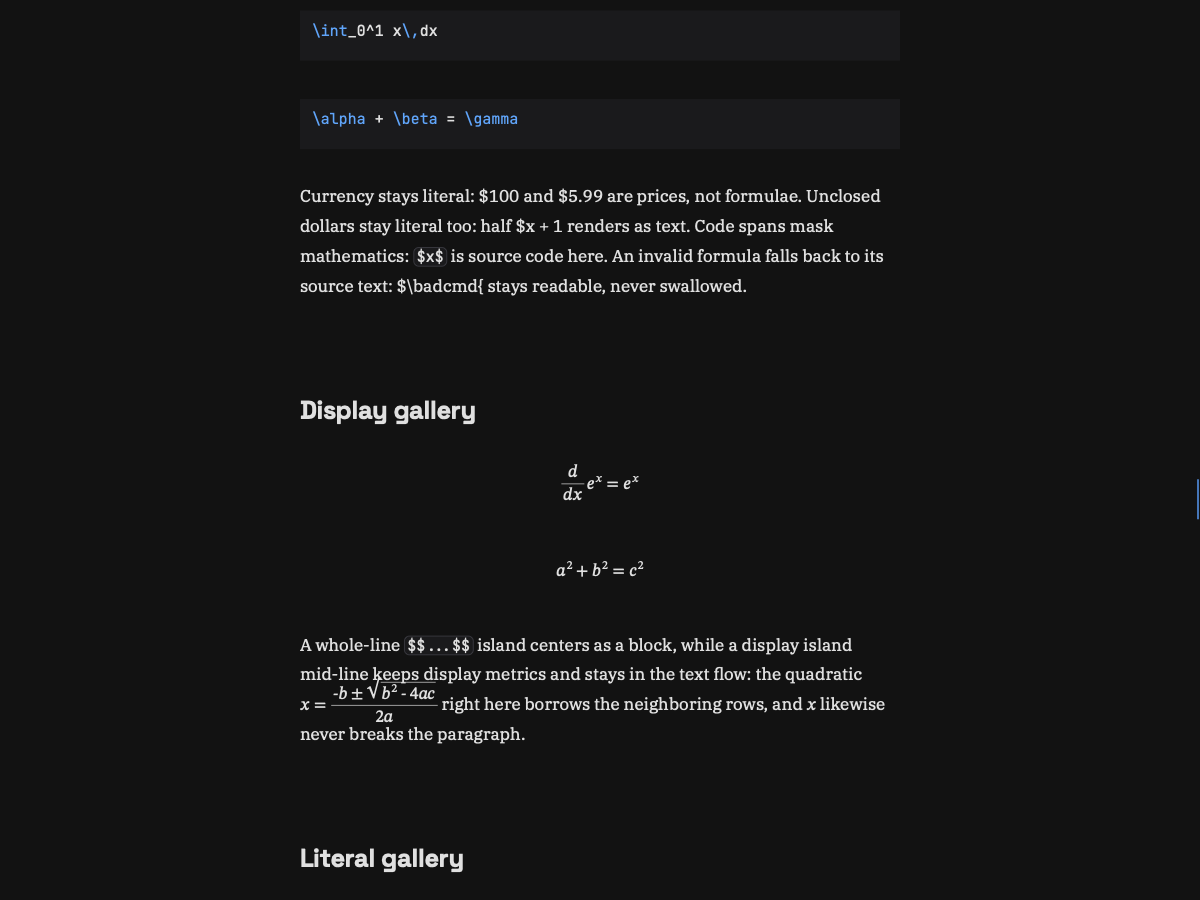
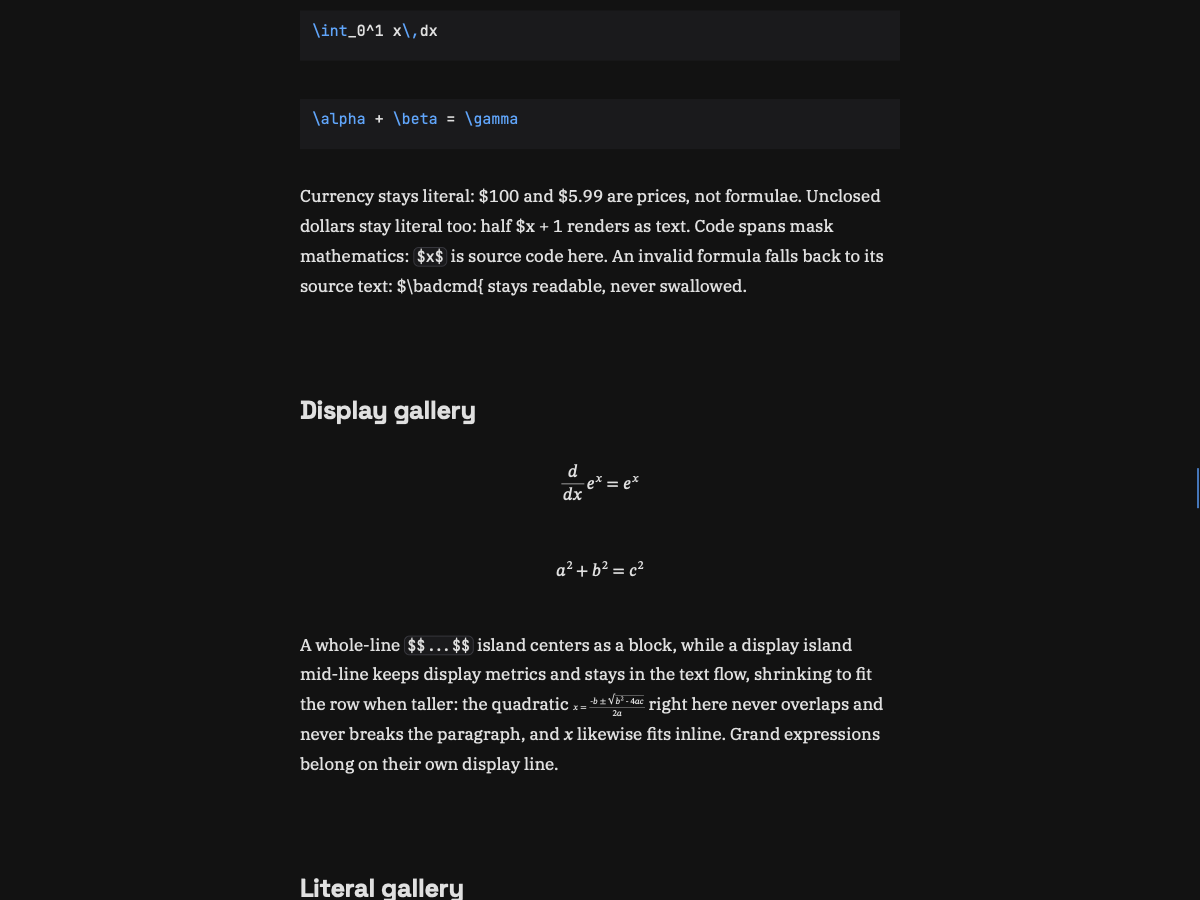
ZaTeX inline: shrink over-height boxes to fit inside the row
A box that would spill past the row top/bottom scales uniformly against
per-side baseline budgets, so inline $ and mid-line $$ never overlap
and never break the paragraph. 529/529 green, gate PASS (plugin
12090/12288). Trio re-shot live.

Changed region(s): [[0.2467, 0.7467, 0.74, 0.8711], [0.2467, 0.9333, 0.4008, 1.0]]

diff --git a/docs/spec.md b/docs/spec.md
@@ -42,9 +42,9 @@ and skips diagonal strikes (never misdrawn).
 Fallback is sourcetelling, never silent: engine absent or refusing (invalid
 input, over 64 KiB, too deep, expansion limit) renders fences as plain code
 cards and islands as literal text, byte-identical to the pre-math reader.
-v1 limits: tall inline ink takes room from the neighboring rows'
-leading space (split by the baseline, never a paragraph break — mid-line
-display borrows room the same way); math is not selectable, not
+v1 limits: inline boxes taller than one row shrink to fit it
+(mid-line display included — never an overlap, never a paragraph
+break); math is not selectable, not
 find-highlighted, and not copyable; math inside link text, headings,
 and block code stays literal; display delimiters spanning source lines
 need fence form. Fixture: `test_cases/math.md`.

diff --git a/test_cases/math.md b/test_cases/math.md
@@ -37,9 +37,11 @@ $$\frac{d}{dx} e^x = e^x$$
 $$a^2 + b^2 = c^2$$
 
 A whole-line `$$...$$` island centers as a block, while a display
-island mid-line keeps display metrics and stays in the text flow: the
-quadratic $$x = \frac{-b \pm \sqrt{b^2 - 4ac}}{2a}$$ right here borrows
-the neighboring rows, and $$x$$ likewise never breaks the paragraph.
+island mid-line keeps display metrics and stays in the text flow,
+shrinking to fit the row when taller: the quadratic
+$$x = \frac{-b \pm \sqrt{b^2 - 4ac}}{2a}$$ right here never overlaps
+and never breaks the paragraph, and $$x$$ likewise fits inline. Grand
+expressions belong on their own display line.
 
 ## Literal gallery
 
